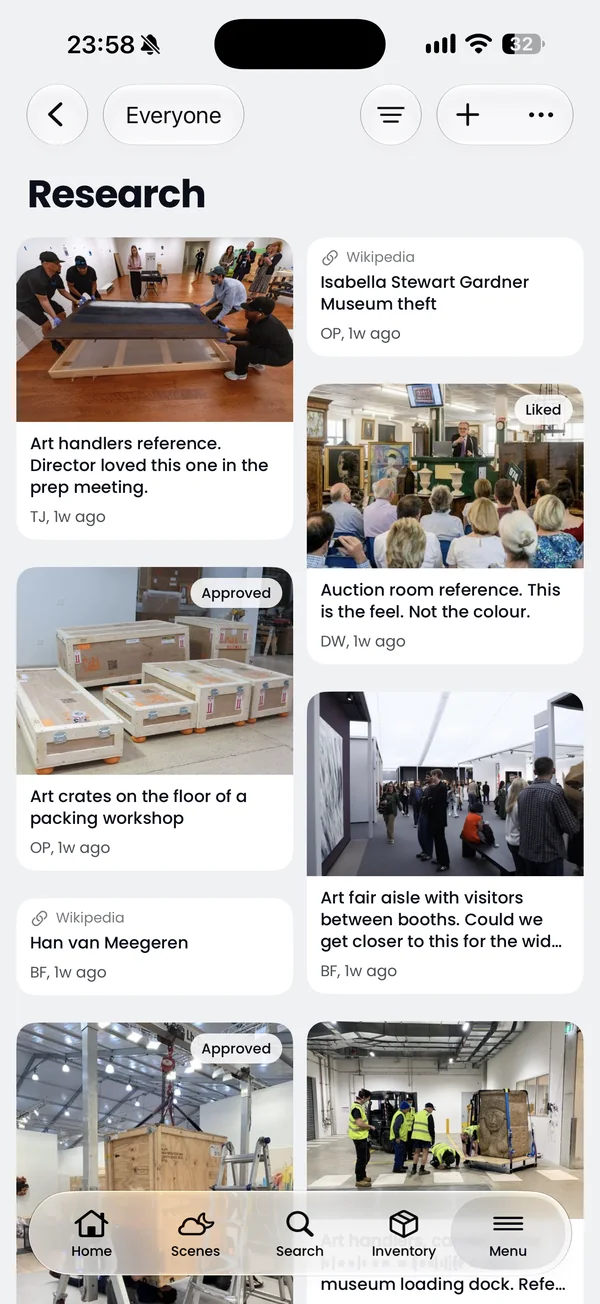
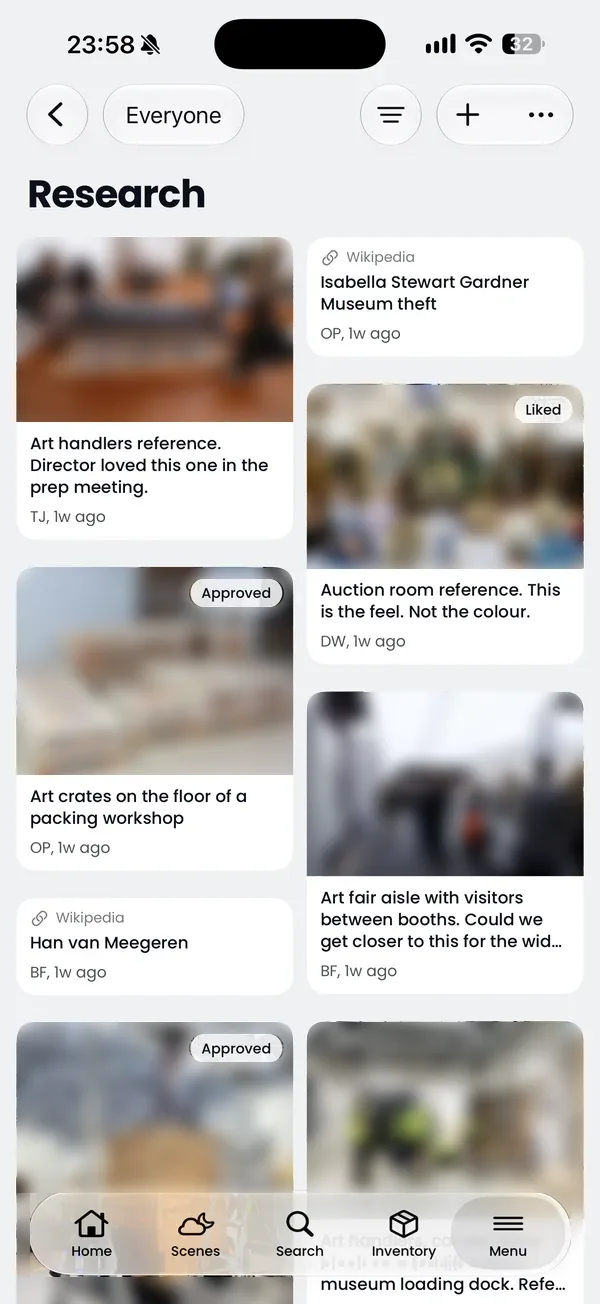
docs: add user protections to the terms and p rivacy policy
The terms and privacy policy gain protective clauses from a review of another app's policy, and fixed promises are softened. Cookie consent and news-email opt-outs must exist on the site before those clauses apply. The research-board screenshot is also shrunk to half its size.

diff --git a/src/pages/Terms.tsx b/src/pages/Terms.tsx
@@ -15,6 +15,18 @@ import { company } from '../Layout'
 // Still hard, left for the solicitor: no refunds for part months, the
 // 30 + 30 days in the data processing terms, and the liability cap.
 //
+// ADDED FROM A COMPARISON WITH ANOTHER APP'S TERMS (owner agreed, same
+// day; the list is a comment on #40). All of it protects us, none of it
+// is a promise by us: the uploader has the right to what they add; members
+// keep a production's content inside it; no bots, no getting round limits
+// or checks, no harassment; we may remove content, and act at once when it
+// is serious; deleting the app does not cancel a plan; counts and reports
+// are to be checked; keep your own copies; things outside our control;
+// other companies' sites and services; a business covers claims its team
+// causes (NOT individuals: against a consumer it would not hold); the
+// whole agreement; notices by email or in the app. The liability cap was
+// not touched.
+//
 // LOST OR STOLEN DEVICES (owner, same day): the member signs the device
 // out, the owner and coordinators remove them from the production, and we
 // are not responsible for what is seen through a device or sign-in that
@@ -42,15 +54,15 @@ export function Terms() {
 
       <h2>Who can use it</h2>
       <p>
-        You must be 16 or over. Your account is for you alone: don&rsquo;t share it or your sign-in
-        codes.
+        You must be 16 or over, and we may close an account that belongs to someone younger. Your
+        account is for you alone: don&rsquo;t share it or your sign-in codes.
       </p>
 
       <h2>Your account</h2>
       <p>
         You sign in with a one-time code sent to your email and your password, or through another
         sign-in service the app offers, such as Apple or Google. Keep your device, your password and
-        your PIN secure. You&rsquo;re
+        your PIN secure, and keep the details you give us true and up to date. You&rsquo;re
         responsible for what happens under your account, and you should tell us straight away if you
         think someone else has used it.
       </p>
@@ -65,8 +77,9 @@ export function Terms() {
       <h2>Productions and roles</h2>
       <p>
         Whoever creates a production owns it. The owner chooses its plan and manages its team, and
-        where the app offers it, can hand the production over to another member. The owner and coordinators are responsible
-        for inviting the right people, and for removing anyone who should no longer have access.
+        where the app offers it, can hand the production over to another member. The owner and
+        coordinators are responsible for inviting the right people, and for removing anyone who
+        should no longer have access.
         That includes a member whose device has been lost or stolen, or whose account someone else
         may have got into, until it is safe again.
       </p>
@@ -77,8 +90,14 @@ export function Terms() {
         You give us permission to store, process and show it only so we can provide, support and
         protect StageRoll for you and your team. Our providers and their tools may handle it for
         that. In the app, a production&rsquo;s content is shown only to its members. We never sell
-        your content or use it for advertising. How we handle
-        personal data is in our <a href="/privacy/">privacy policy</a>.
+        your content or use it for advertising. How we handle personal data is in our{' '}
+        <a href="/privacy/">privacy policy</a>.
+      </p>
+      <p>
+        Whoever adds something to a production is responsible for it, and confirms they have the
+        right to add it. That includes photos of people, and pictures, links and files that come
+        from somewhere else. Members should keep a production&rsquo;s content within the production.
+        What a member does with it is between them and the production, not us.
       </p>
 
       <h2>Personal data in a production</h2>
@@ -90,7 +109,7 @@ export function Terms() {
       </p>
       <p>
         If you run a production, you confirm that you have a lawful basis for what your team records
-        about people, including anything sensitive, such as health information in a note; that you
+        about people, including children and anything sensitive, such as health information in a note; that you
         have told those people what is recorded and why; and that you&rsquo;ll deal with their
         requests about it.
       </p>
@@ -122,13 +141,17 @@ export function Terms() {
       <h2>Acceptable use</h2>
       <p>
         Use StageRoll for productions you&rsquo;re actually part of. Don&rsquo;t try to reach other
-        productions&rsquo; data, probe or overload the service, copy or take apart the app, use it to
-        store anything unlawful or anything you have no right to hold, or resell it.
+        productions&rsquo; data, probe or overload the service, use bots or scripts to sign in or
+        pull data out, get round a plan&rsquo;s limits or the sign-in, PIN or payment checks, copy
+        or take apart the app, use it to store anything unlawful or anything you have no right to
+        hold, use it to harass or abuse anyone, or resell it.
       </p>
       <p>
-        If we suspect these rules are being broken, we may look into it using the records our
-        privacy policy describes, and we may suspend or close the accounts or productions involved.
-        We&rsquo;ll tell you why, unless the law stops us.
+        If we think these rules are being broken, or there is a risk to security, we may look into
+        it using the records our privacy policy describes, and we may remove content, or suspend or
+        close the accounts or productions involved. Where it is serious, we may do that straight
+        away, without telling you first. We&rsquo;ll usually tell you why, unless the law or
+        security stops us. If you think someone is breaking these rules, write to us.
       </p>
 
       <h2>Plans and payment</h2>
@@ -143,9 +166,11 @@ export function Terms() {
       <p>
         Starter and Pro are billed monthly in advance by card, and renew each month until they are
         cancelled. You can cancel at any time, and the plan ends at the close of the month
-        you&rsquo;ve paid for; we don&rsquo;t refund part months unless the law requires it.
-        We&rsquo;ll tell you in advance of a price change, so you can cancel before it applies. If a payment fails and
-        isn&rsquo;t put right after we&rsquo;ve told you, we may move the production to the free plan.
+        you&rsquo;ve paid for; we don&rsquo;t refund part months unless the law requires it. You
+        cancel a plan from your account on our website, or by writing to us. Deleting the app or
+        signing out doesn&rsquo;t cancel it. We&rsquo;ll tell you in advance of a price change, so
+        you can cancel before it applies. If a payment fails and isn&rsquo;t put right after
+        we&rsquo;ve told you, we may move the production to the free plan.
       </p>
       <p>
         Enterprise is billed by invoice or purchase order, for the length and on the terms agreed in
@@ -159,7 +184,7 @@ export function Terms() {
 
       <h2>Our software</h2>
       <p>
-        We own StageRoll, apart from your content. While these terms apply, you may use it for your
+        We own StageRoll, including its name, logo and design, apart from your content. While these terms apply, you may use it for your
         productions; that right is yours alone and can&rsquo;t be transferred. If you send us ideas
         or feedback, we may use them freely.
       </p>
@@ -170,6 +195,26 @@ export function Terms() {
         always be available or free of errors, and it is provided as it is. We may change or remove
         features. If we ever close StageRoll altogether, we&rsquo;ll give account holders as much
         notice as we reasonably can.
+      </p>
+      <p>
+        Counts, totals, values and reports in StageRoll are there to help, and can be wrong or out
+        of date. Check them before you rely on them, above all for money, insurance or safety.
+      </p>
+      <p>
+        We can&rsquo;t promise to bring back work that is lost or deleted, beyond what Recently
+        deleted holds. Keep your own copy of anything you can&rsquo;t afford to lose.
+      </p>
+      <p>
+        We aren&rsquo;t responsible for a failure or delay caused by something outside our
+        reasonable control, such as your device or connection, a lost sign-in, or another
+        company&rsquo;s service going wrong.
+      </p>
+
+      <h2>Other companies&rsquo; sites and services</h2>
+      <p>
+        Links, pictures and services that come from other companies aren&rsquo;t ours: a website a
+        research link points to, a supplier, or the service you sign in with. Their own terms and
+        privacy policies apply, and we aren&rsquo;t responsible for them.
       </p>
 
       <h2>Our liability</h2>
@@ -182,6 +227,12 @@ export function Terms() {
         revenue, business or goodwill. For everything that happens in any 12-month period, the most
         we&rsquo;ll pay you and your production in total is what the production paid us in the 12
         months before the first claim, or &pound;100 if that is more.
+      </p>
+      <p>
+        If you use StageRoll for a business, a company or a production, it will cover our reasonable
+        costs and losses if a claim is made against us because of what its team put into StageRoll,
+        or because its team broke these terms. This doesn&rsquo;t apply to someone using StageRoll
+        as an individual consumer.
       </p>
 
       <h2>Ending things</h2>
@@ -207,9 +258,20 @@ export function Terms() {
 
       <h2>General</h2>
       <p>
-        If part of these terms can&rsquo;t be enforced, the rest still applies. We may transfer these
-        terms to a business that takes over StageRoll, and we&rsquo;ll tell you if we do. No one else
-        has rights under them.
+        These terms, our pricing page when you buy, and any contract we have both signed are the
+        whole agreement between us. What our website, a demo or a conversation says isn&rsquo;t a
+        promise unless it is written into one of those, and a customer&rsquo;s own purchase terms
+        don&rsquo;t apply unless we agree to them in writing.
+      </p>
+      <p>
+        We can tell you things under these terms by email to your account&rsquo;s address, or in the
+        app, so keep that address up to date.
+      </p>
+      <p>
+        If part of these terms can&rsquo;t be enforced, the rest still applies. If we don&rsquo;t
+        act on a right straight away, we haven&rsquo;t given it up. We may transfer these terms to a
+        business that takes over StageRoll, and we&rsquo;ll tell you if we do. No one else has
+        rights under them.
       </p>
 
       <h2>Law</h2>

diff --git a/src/pages/Privacy.tsx b/src/pages/Privacy.tsx
@@ -35,6 +35,15 @@ import { company } from '../Layout'
 // It replaces the 12 October 2026 text, which described the launch app in
 // detail and was untrue of the app in thirteen places (the check is a
 // comment on #40). A solicitor still reads this before launch (#40).
+//
+// ADDED FROM A COMPARISON WITH ANOTHER APP'S POLICY (owner agreed, same
+// day; the list is a comment on #40): cookies on the website, sharing to
+// protect ourselves, keeping something longer for the law or a claim, news
+// emails, figures that identify no one, children in a production's
+// records, taking consent back. All "may". Two of them need the SITE to
+// behave before they are used: a cookie that is not needed for sign-in or
+// security needs a real consent choice on the site first (PECR), and a
+// news email needs consent or the soft opt-in, with a way to stop in it.
 
 export function Privacy() {
   return (
@@ -43,7 +52,8 @@ export function Privacy() {
       <p className="updated">Last updated 27 November 2026</p>
 
       <p className="lede">
-        This policy covers the StageRoll app and this website, stageroll.co. It says what we collect,
+        This policy covers the StageRoll app, this website, stageroll.co, and what you send us when
+        you get in touch. It says what we collect,
         why, who else handles it, how we protect it, how long we keep it, and what you can ask us to
         do. We may change it at any time; the date above shows when it last changed.
       </p>
@@ -59,7 +69,7 @@ export function Privacy() {
       <h2>Content a production puts in</h2>
       <p>
         A production&rsquo;s team uses StageRoll to record its work, and that can include
-        information about people who don&rsquo;t use StageRoll: photos of cast in costume, hair and
+        information about people who don&rsquo;t use StageRoll, some of whom may be children: photos of cast in costume, hair and
         makeup, sizes and notes recorded against the characters they play, and the names of people
         items come from or go to. The company or person running the production decides what is recorded
         and why, and is the controller of that content. The same goes for any record a production chooses to
@@ -74,7 +84,10 @@ export function Privacy() {
         You can read this site without giving us any personal data. Our hosting provider records
         visitors&rsquo; IP addresses for security, under its own privacy statement. Where the site
         lets you sign in or manage a plan, what you give us there is handled as this policy
-        describes for the app. If you email us, your message is handled by our email provider.
+        describes for the app. The site may use cookies or similar storage in your browser: those
+        needed to sign you in and keep it secure are used without asking, and any others only where
+        the law allows, with your consent where it needs it. If you email us, your message is
+        handled by our email provider.
       </p>
 
       <h2>What we collect in the app</h2>
@@ -152,7 +165,8 @@ export function Privacy() {
         When you add a research link, StageRoll fetches the page&rsquo;s title and picture once, and
         keeps the picture with the production. That request may come from your device or from our
         servers, so the linked website may see your device&rsquo;s IP address, as it would if you
-        opened the link.
+        opened the link. Other websites that StageRoll links to have their own privacy policies,
+        and this one doesn&rsquo;t cover them.
       </p>
 
       <h2>How we use it, and why</h2>
@@ -171,6 +185,10 @@ export function Privacy() {
       <p>
         <strong>To improve StageRoll</strong>, because we have a legitimate interest in making it
         better: using information about how the app is used, which you can turn off.
+      </p>
+      <p>
+        <strong>To keep you informed</strong>: we may email you news about StageRoll, where the law
+        allows, and you can stop those emails at any time.
       </p>
       <p>
         <strong>To provide extra security features</strong>, on behalf of productions that use them.
@@ -202,8 +220,10 @@ export function Privacy() {
         providers.
       </p>
       <p>
-        We also share information when the law requires it, and with a buyer if the business is ever
-        sold, who would have to keep to this policy.
+        We also share information when the law requires it; where we need to, to protect our rights,
+        the people who use StageRoll and the service itself, including from fraud and misuse; and
+        with a buyer if the business is ever sold, who would have to keep to this policy. We may use
+        and share figures about how StageRoll is used that can&rsquo;t identify anyone.
       </p>
 
       <h2>Where it&rsquo;s stored</h2>
@@ -252,6 +272,10 @@ export function Privacy() {
           contract, a complaint or a legal claim.
         </li>
         <li>Copies in our backups and logs: usually deleted within 30 days.</li>
+        <li>
+          Any of these may be kept longer where the law requires it, or where we need it for a legal
+          claim.
+        </li>
       </ul>
 
       <h2>Deleting your account</h2>
@@ -273,7 +297,8 @@ export function Privacy() {
       </p>
       <p>
         <strong>You can object</strong> to us using your data where we rely on our legitimate
-        interests, and we&rsquo;ll stop unless we have compelling grounds to continue.
+        interests, and we&rsquo;ll stop unless we have compelling grounds to continue. Where we rely
+        on your consent for something, you can take it back at any time.
       </p>
       <p>
         Write to <a href={`mailto:${company.email}`}>{company.email}</a>. We may ask you to confirm
@@ -289,7 +314,9 @@ export function Privacy() {
       <h2>Children</h2>
       <p>
         StageRoll is a tool for people working on productions and isn&rsquo;t meant for children.
-        You must be 16 or over to create an account.
+        You must be 16 or over to create an account, and we may close an account that belongs to
+        someone younger. What a production records about a child, such as a child cast member, is the
+        production&rsquo;s responsibility, like everything else it records.
       </p>
 
       <h2>Changes</h2>

diff --git a/src/pages/Help.tsx b/src/pages/Help.tsx
@@ -6,7 +6,7 @@ import { company } from '../Layout'
 /**
  * Help: how to do the common things, as numbered steps, one action a step,
  * each starting with its verb, the app's words for its buttons and rows in
- * bold (after Sortly's help centre, user call 2026-11-04). The topics
+ * bold (user call 2026-11-04). The topics
  * stand at the top, grouped, as links to each.
  *
  * The app opens this page from its Help row (with ?from=app), and there
